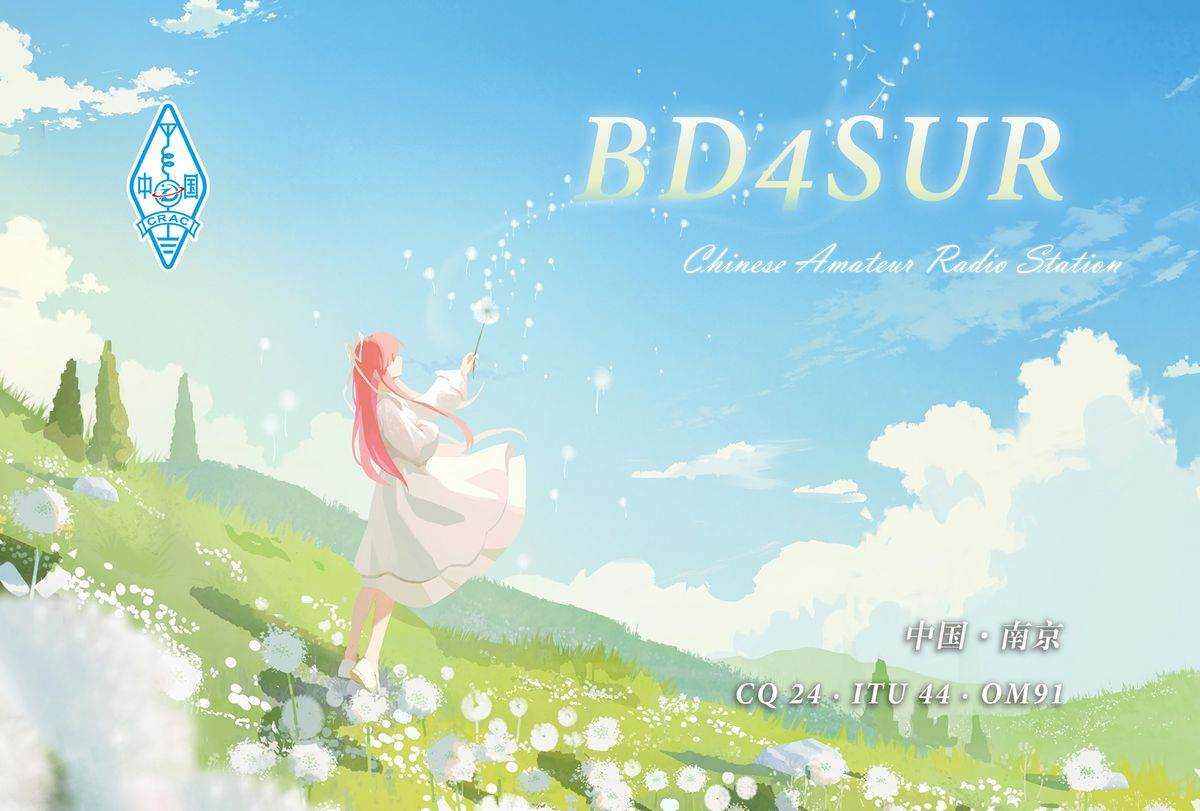
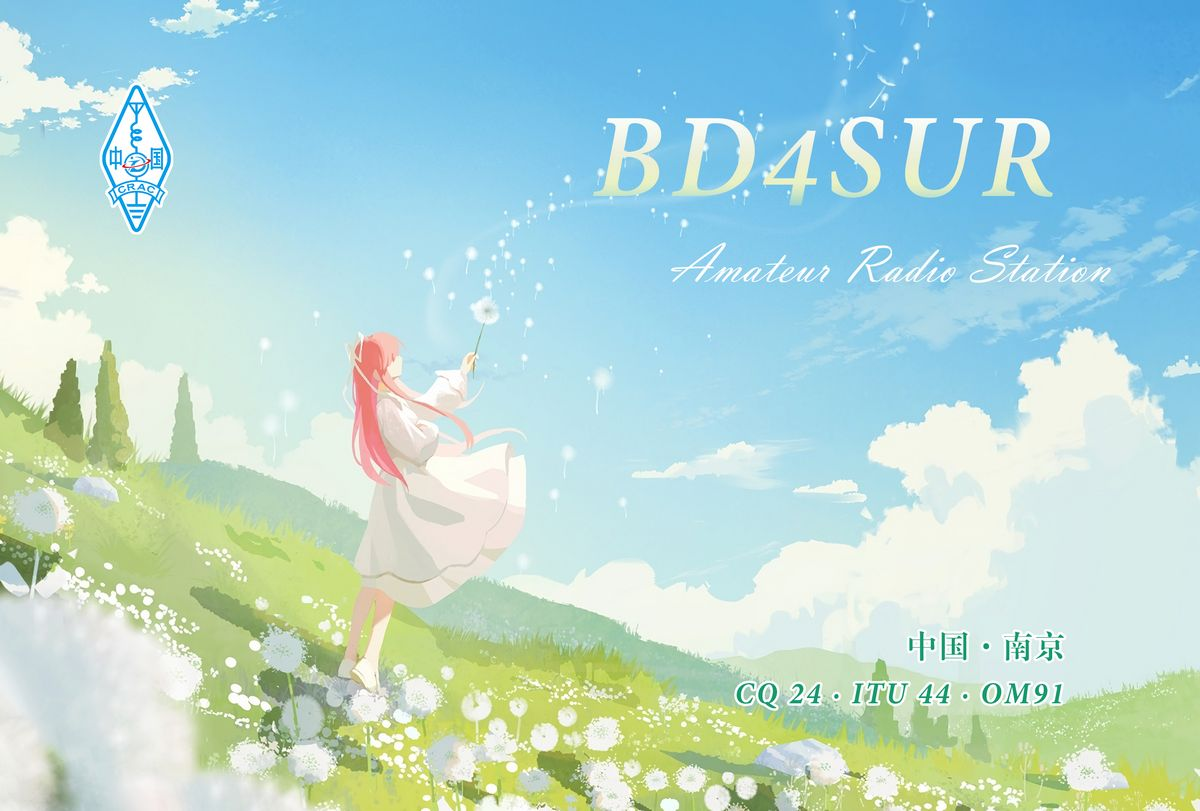
2023-11-05

diff --git a/markdown/about.md b/markdown/about.md
@@ -84,7 +84,7 @@
 }
 
 .ContactLink { font-size: 20px; line-height: 30px; padding: 0 5px; }
-a.ContactLink { text-decoration: none; border: none; color: #666; }
+a.ContactLink { text-decoration: none; border: none; color: #596275; }
 a.ContactLink:hover { text-decoration: none; border: none; }
 .GitHub::before {
     font-family: "Font Awesome 5 Brands";
@@ -119,12 +119,18 @@ a.ContactLink:hover { text-decoration: none; border: none; }
 .BlogrollLink {
     margin: 3px 6px;
 }
-#mail-at:before  { content: "@"; font-style: normal; }
-#mail-dot:before { content: "."; font-style: normal; }
+#dianyou {
+    font-size: 13px;
+    margin: 5px 0;
+    color: #596275;
+}
+#dianyou-at:before  { content: "@"; font-style: normal; }
+#dianyou-dot:before { content: "."; font-style: normal; }
 </style>
 
 <div class="SectionBody" style="margin-top: 30px;">
-    <table style="margin: 20px auto 10px auto;">
+    <img src="image/G3/qsl/QSL2023-A-1-RGB.jpg" style="width: 80%; max-width: 550px; border-radius: 5px;">
+    <!--<table style="margin: 20px auto 10px auto;">
         <tr>
             <td><img src="image/G3/crac-logo/CRAC-1.png" style="width: 40px; padding-right: 10px;"></td>
             <td style="text-align: left; font-size: 12px; line-height: 18px;">
@@ -136,11 +142,12 @@ a.ContactLink:hover { text-decoration: none; border: none; }
             </td>
             <td><img src="image/nanjing-location.png" style="width: 80px; padding-left: 10px;"></td>
         </tr>
-    </table>
+    </table>-->
 </div>
 
 <div class="SectionBody">
-    <div><a class="ContactLink Weixin" onclick="alert(`请直接在微信中搜索微信号“bd4sur”。`);"></a><a class="ContactLink GitHub" target="_blank" href="https://github.com/bd4sur/"></a><a class="ContactLink Bilibili" target="_blank" href="https://space.bilibili.com/7919331"></a></div>
+    <div><a class="ContactLink Weixin" onclick="alert(`微信号“bd4sur”。`);"></a><a class="ContactLink GitHub" target="_blank" href="https://github.com/bd4sur/"></a><a class="ContactLink Bilibili" target="_blank" href="https://space.bilibili.com/7919331"></a></div>
+    <div id="dianyou">欢迎联系 bd4sur<span id="dianyou-at"></span>qq<span id="dianyou-dot"></span>com</div>
 </div>
 
 <div class="SectionHeader">友情链接<div class="SectionHeaderComment">以交换时间先后为序</div></div>
@@ -318,13 +325,14 @@ a.ContactLink:hover { text-decoration: none; border: none; }
 <div class="SectionHeader">QSL卡片</div>
 <div class="SectionBody">凡未经本台操作员签名或者加盖呼号印章的卡片<br>均为无效卡片，不能作为通联依据</div>
 <div class="SectionBody">
-    <div>2023年第2版</div>
-    <img src="image/G3/qsl/QSL2023-A-1-RGB.jpg" style="width: 33%; max-width: 350px; border-radius: 5px;">
-    <img src="image/G3/qsl/QSL2023-b.png" style="width: 33%; max-width: 350px; border-radius: 5px;">
-    <img src="image/G3/qsl/QSL2023-A-2-RGB.jpg" style="width: 33%; max-width: 350px; border-radius: 5px;">
+    <div><b>2023年第2版</b></div>
+    <div>使用了暖暖十周年音乐会海报底图</div>
+    <img src="image/G3/qsl/QSL2023-A-1-RGB.jpg" style="width: 30%; max-width: 350px; border-radius: 5px;">
+    <img src="image/G3/qsl/QSL2023-b.png" style="width: 30%; max-width: 350px; border-radius: 5px;">
+    <img src="image/G3/qsl/QSL2023-A-2-RGB.jpg" style="width: 30%; max-width: 350px; border-radius: 5px;">
 </div>
 <div class="SectionBody">
-    <div>2021年第1版</div>
+    <div><b>2021年第1版</b></div>
     <img src="image/G3/qsl/QSL-A.png" style="width: 45%; max-width: 270px;">
     <img src="image/G3/qsl/QSL-B.png" style="width: 45%; max-width: 270px;">
 </div>
